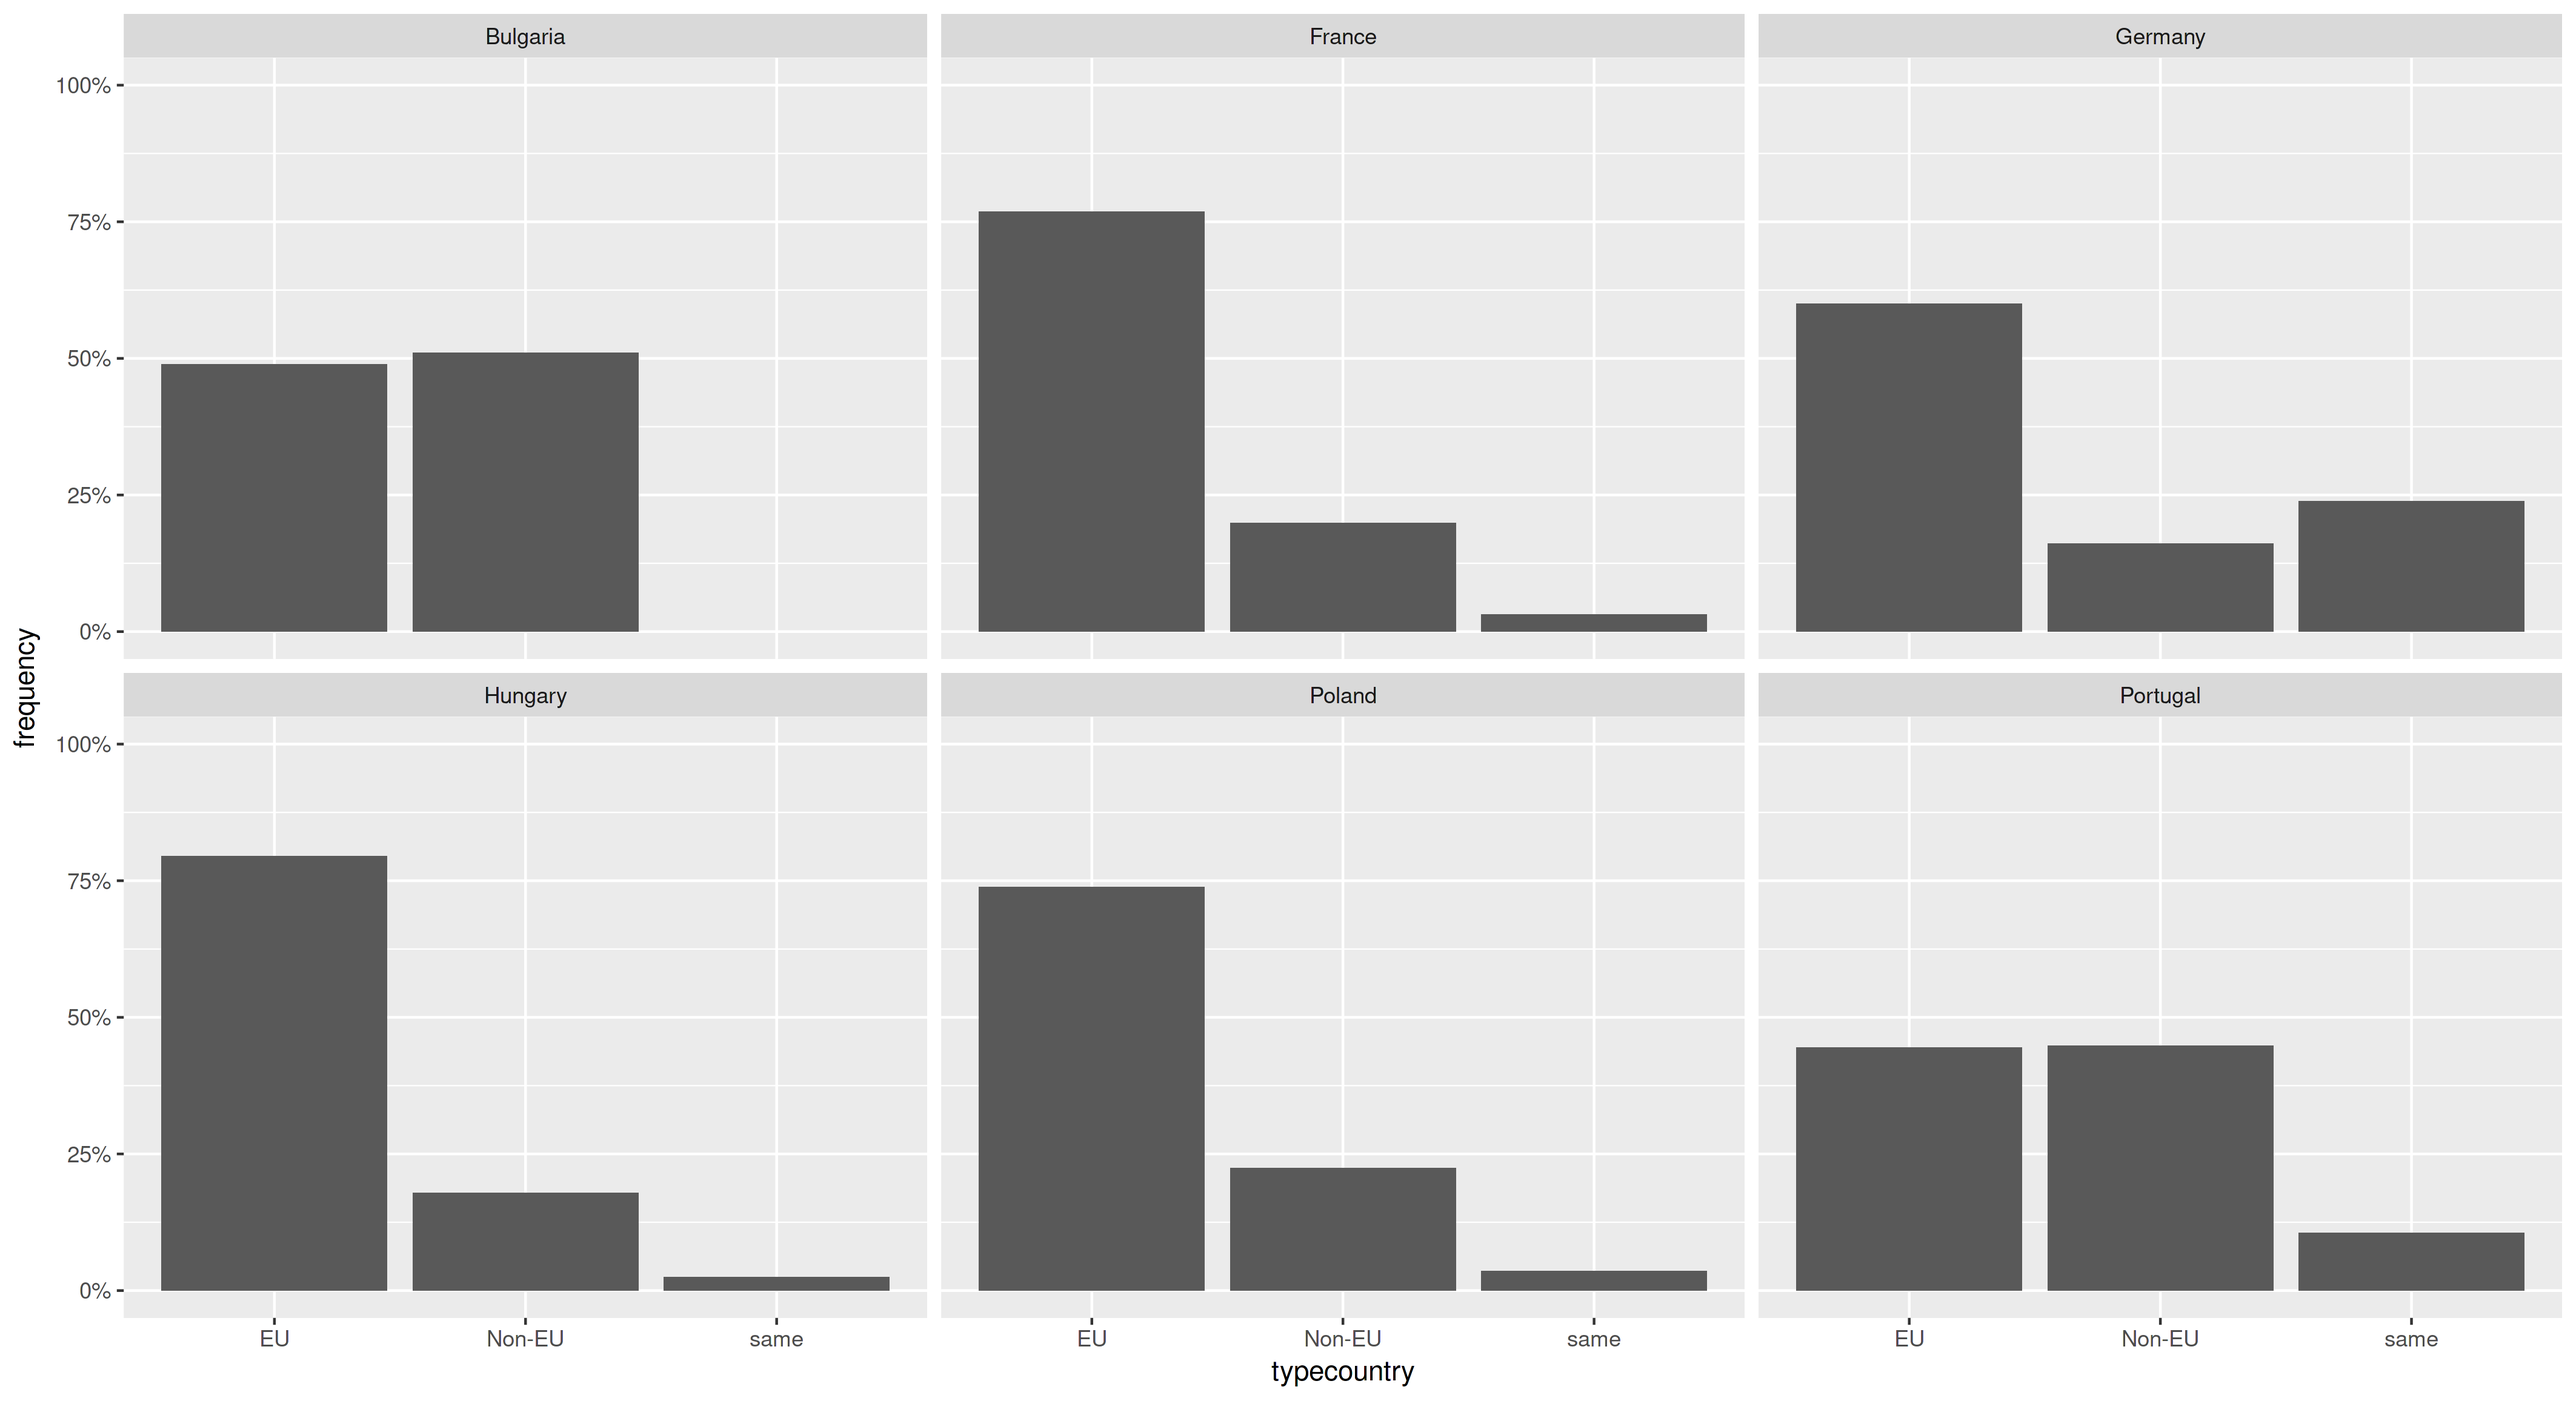
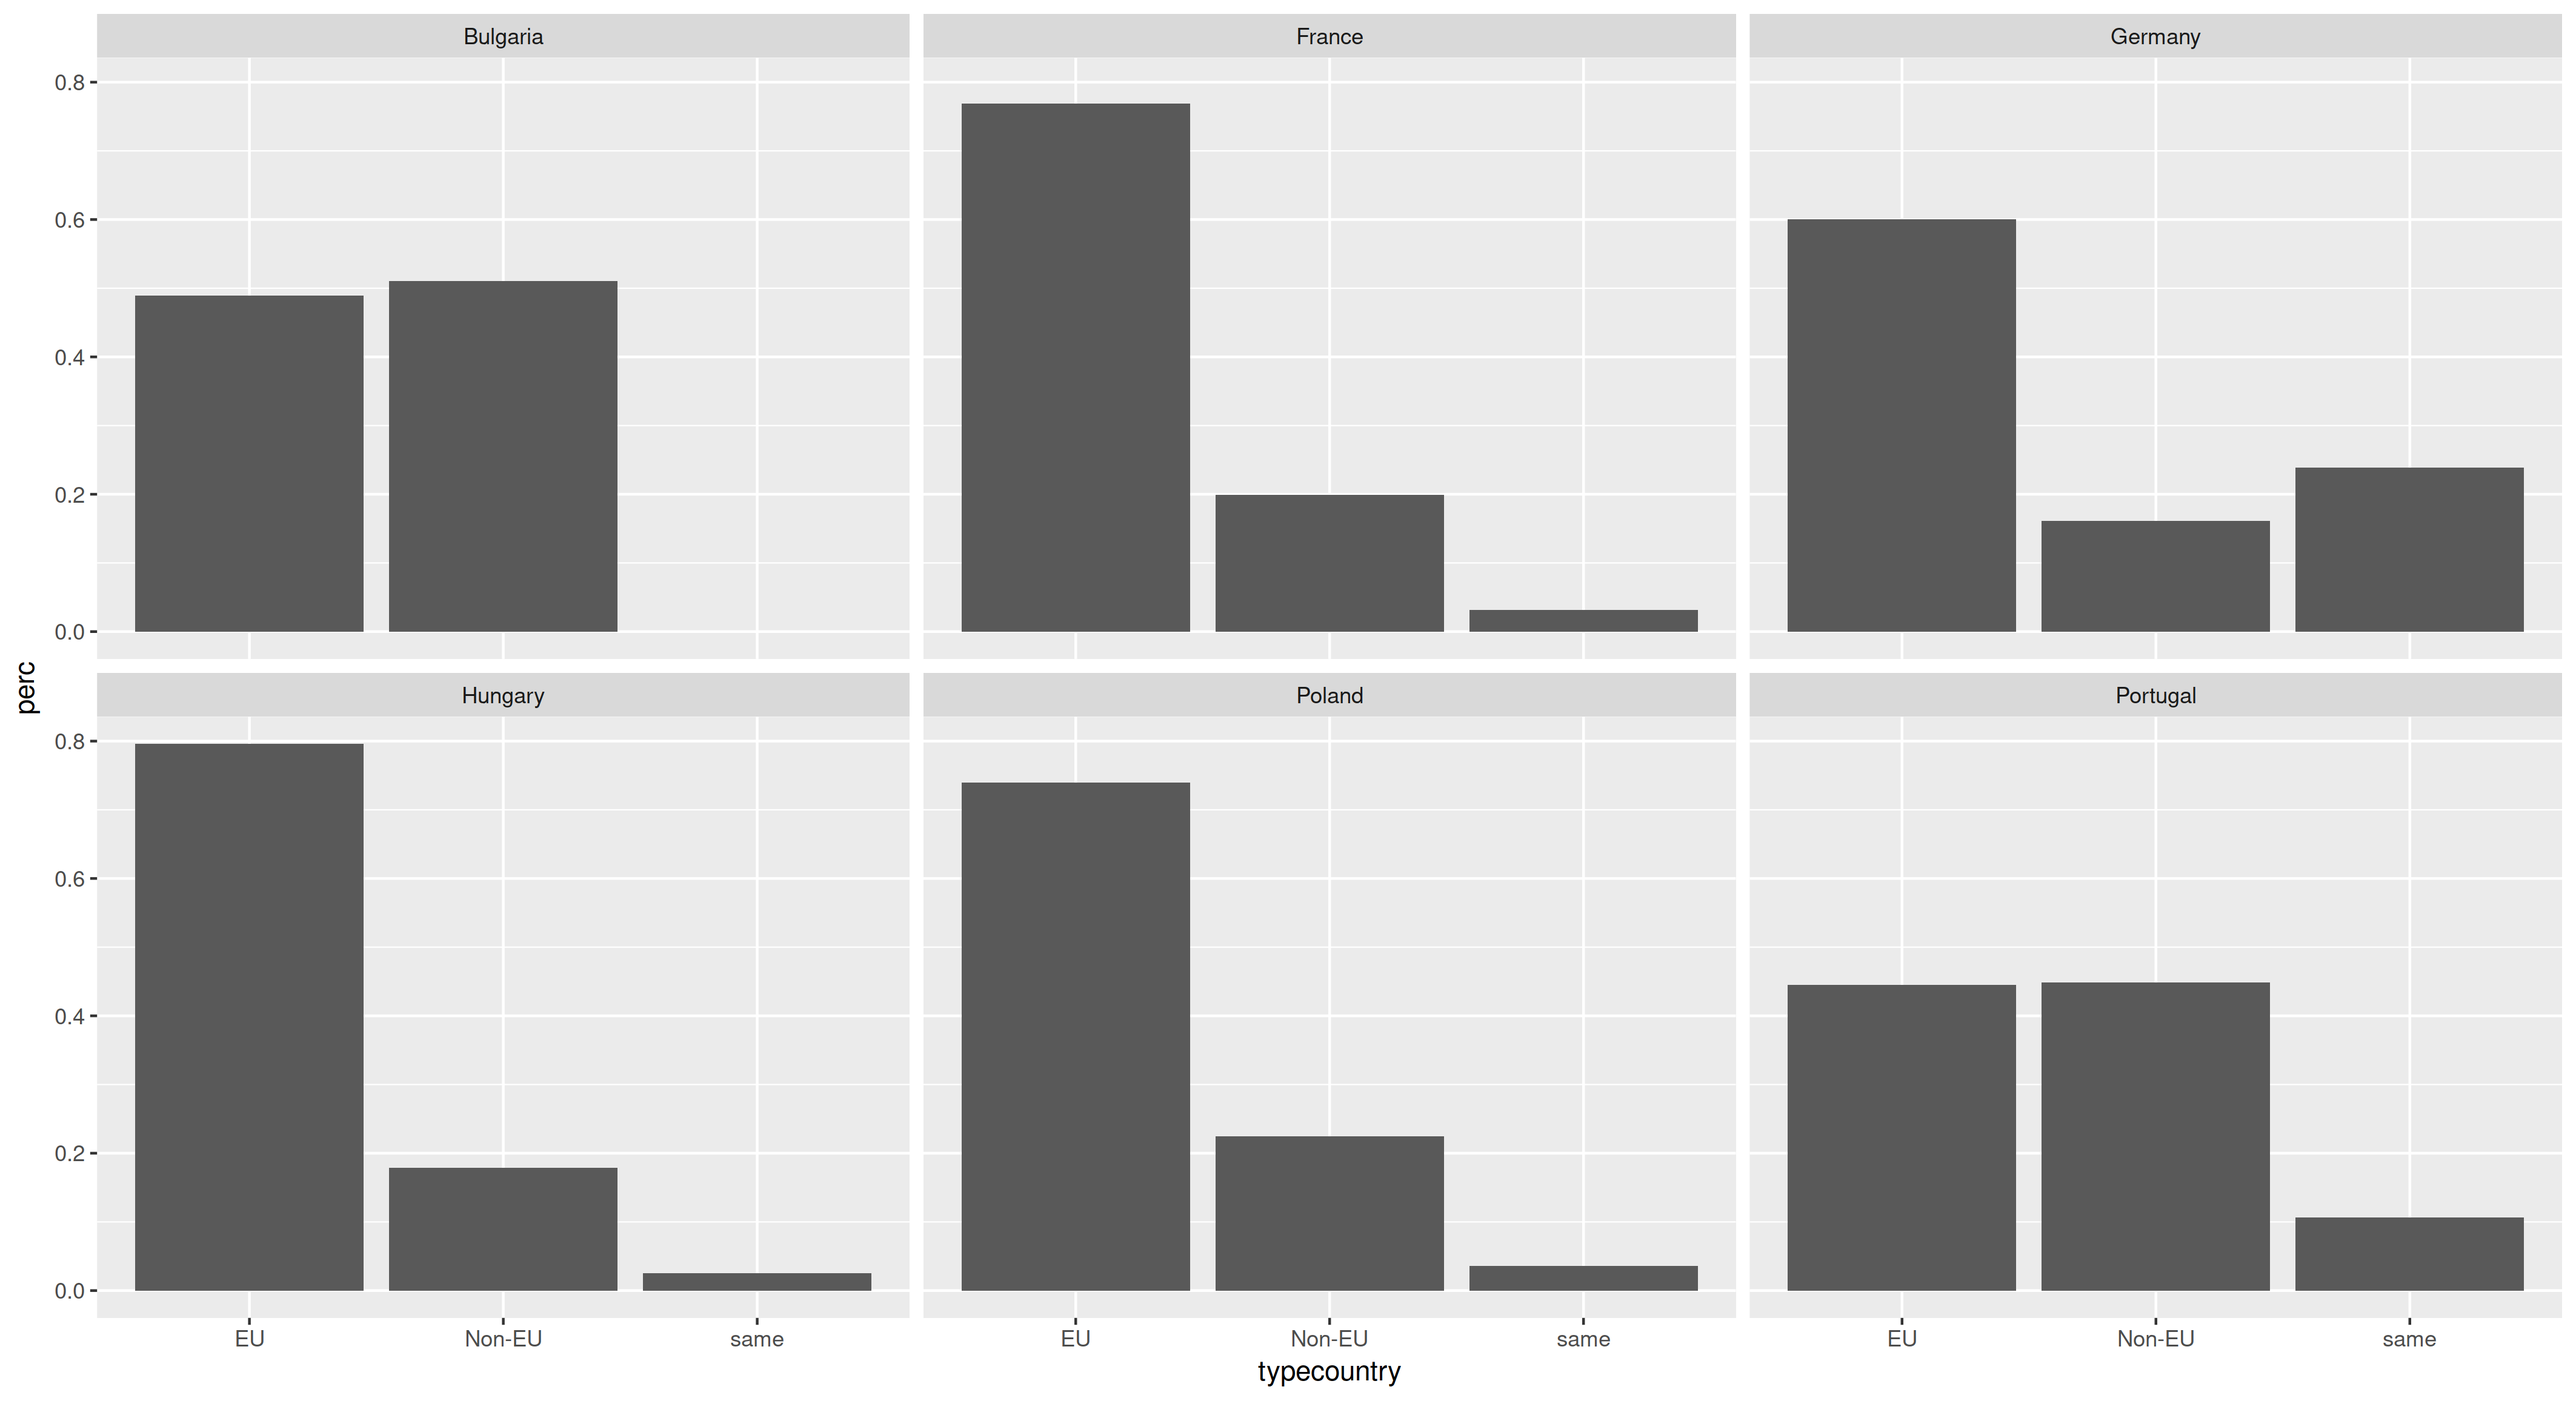
Mejorando facetting

diff --git a/sistercities.md b/sistercities.md
@@ -362,7 +362,7 @@ p2 + scale_colour_gradient(low = "white", high = "red3")
 
 Other scales with gradients (`scales_colour_gradient2` and `scales_colour_gradientn`) have other possibilities. I encourage you to explore them looking at the [documentation page](http://ggplot2.tidyverse.org/reference/scale_gradient.html). By the way: as you can see from the plot, small cities tend to establish relationships with cities which  are not so distant.
 
-Finally we will slightly modify the legend, which is something (as I have already mentioned) which is controlled by the scales. We want to modify of course the terrible title of the legend and to 
+Finally we will slightly modify the legend, which is something (as I have already mentioned) which is controlled by the scales. We want to modify of course the terrible title of the legend and some of its parameters:
 
 ```{r}
 p2 <- p2 + scale_colour_gradient(low = "white",
@@ -375,26 +375,18 @@ p2
 ```
 ![plot09](images/plot09.png)
 
-The legend is controlled by the parameter [`guide`](http://ggplot2.tidyverse.org/reference/guides.html). In this case we tell ggplot2 to use a [`guide_colorbar()`](http://ggplot2.tidyverse.org/reference/guide_colourbar.html) with the parameters you can see regarding the title (caption, position, etc.).
+The legend is controlled by the parameter [`guide`](http://ggplot2.tidyverse.org/reference/guides.html). In this case we tell ggplot2 to use a [`guide_colorbar()`](http://ggplot2.tidyverse.org/reference/guide_colourbar.html) with the parameters you can see regarding the title (caption, position, etc.). 
 
 
 ## Faceting a graph 
 
-But imagine that we would like to represent the same data, but in separated graphs per country. For doing this ggplot2 has powerful possibilities, which are summarised under the label [*facetting*](http://ggplot2.tidyverse.org/reference/index.html#section-facetting). The most simple facetting function is [`facet_wrap()`](http://ggplot2.tidyverse.org/reference/facet_wrap.html), but you can also take a look at the richer [`facet_grid()`](http://ggplot2.tidyverse.org/reference/facet_grid.html).
+Previously we create a plot which compared cities and their relationships with cities in EU countries, non-EU countries using different colors for each country. Nevertheless, ggplot2 provides also a very effective way to make plots which can include information splitted by categories (space, time, and so). We can so represent the same data, but in separated graphs per country. For doing this ggplot2 has powerful possibilities, which are summarised under the label [*facetting*](http://ggplot2.tidyverse.org/reference/index.html#section-facetting). The most simple facetting function is [`facet_wrap()`](http://ggplot2.tidyverse.org/reference/facet_wrap.html), but you can also take a look at the richer [`facet_grid()`](http://ggplot2.tidyverse.org/reference/facet_grid.html).
 
 For getting the graph we are aiming at, we have to calculate the percentage per country into a new variable (`eudata.perc.country`) and then we create the graph: 
 ```{r}
-eudata.perc.country <- eudata %>%
-    group_by(origincountry, typecountry) %>%
-    summarise(total = n()) %>%
-    mutate(frequency = total / sum(total))
-
-p4 <- ggplot(eudata.perc.country, aes(x = typecountry, y = frequency)) +
+ggplot(eudata.perc.country, aes(x = typecountry, y = perc)) +
     geom_bar(stat = "identity") +
-    scale_y_continuous(lim = c(0,1), labels = scales::percent_format()) +
     facet_wrap(~origincountry)
-	
-p4
 ```
 ![plot13](images/plot13.png)
 
